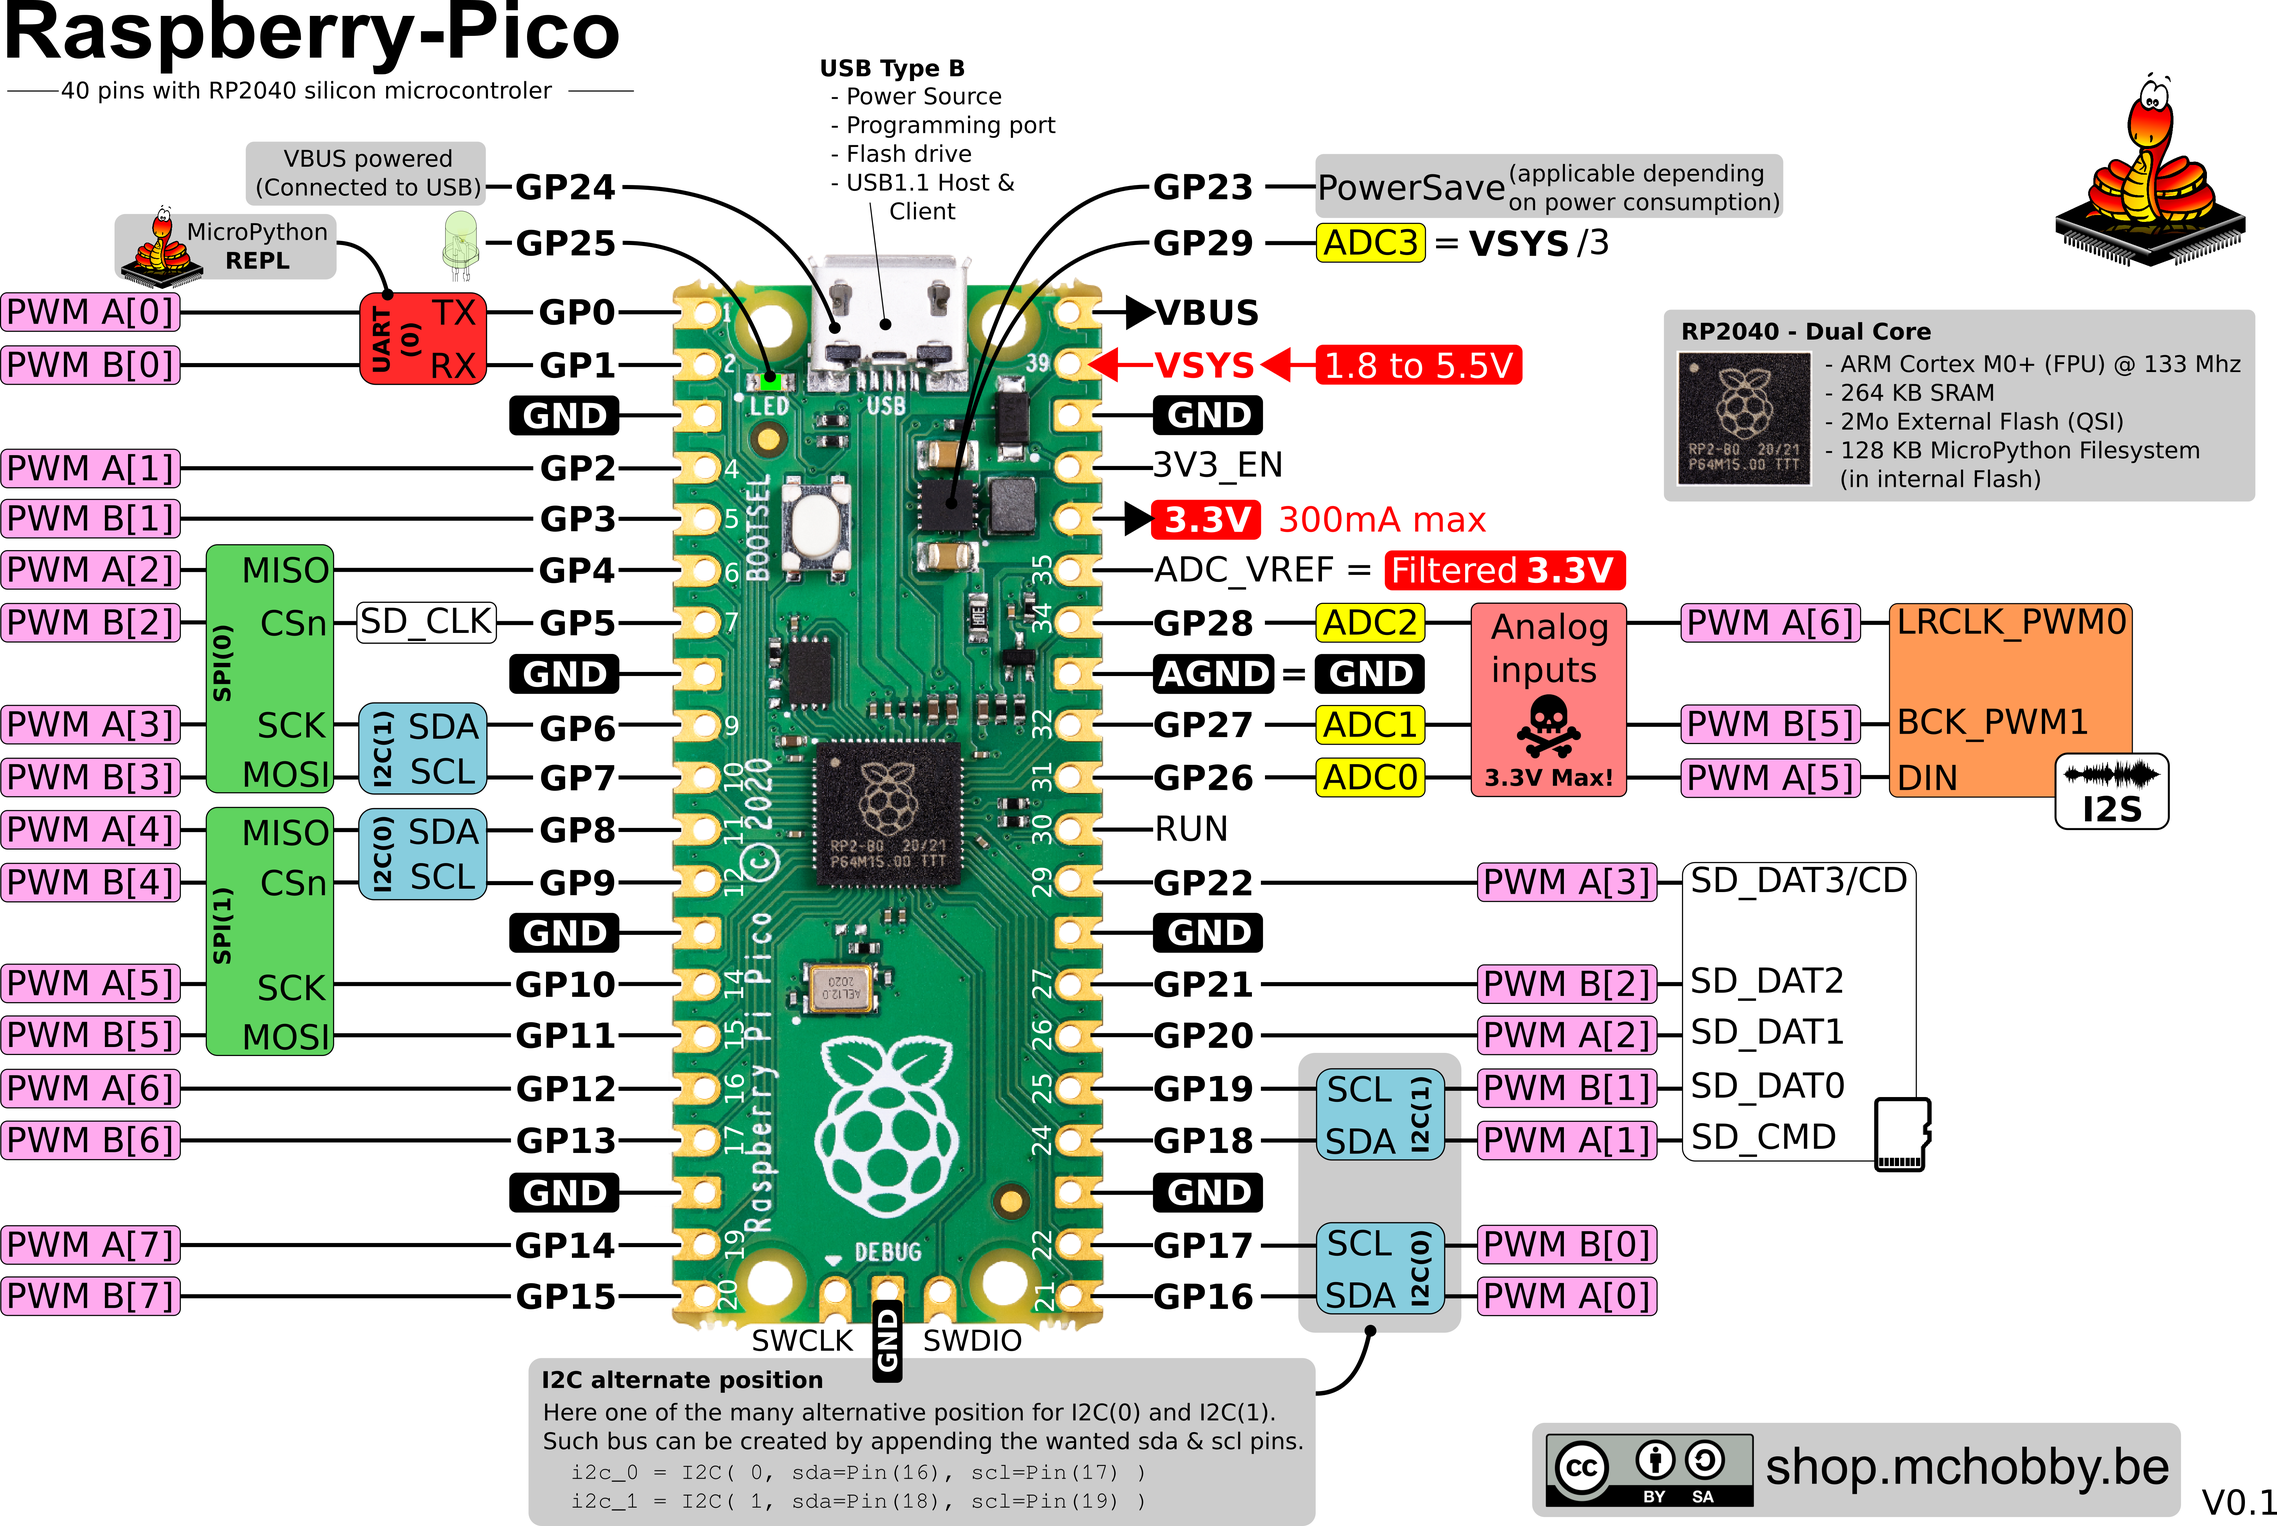
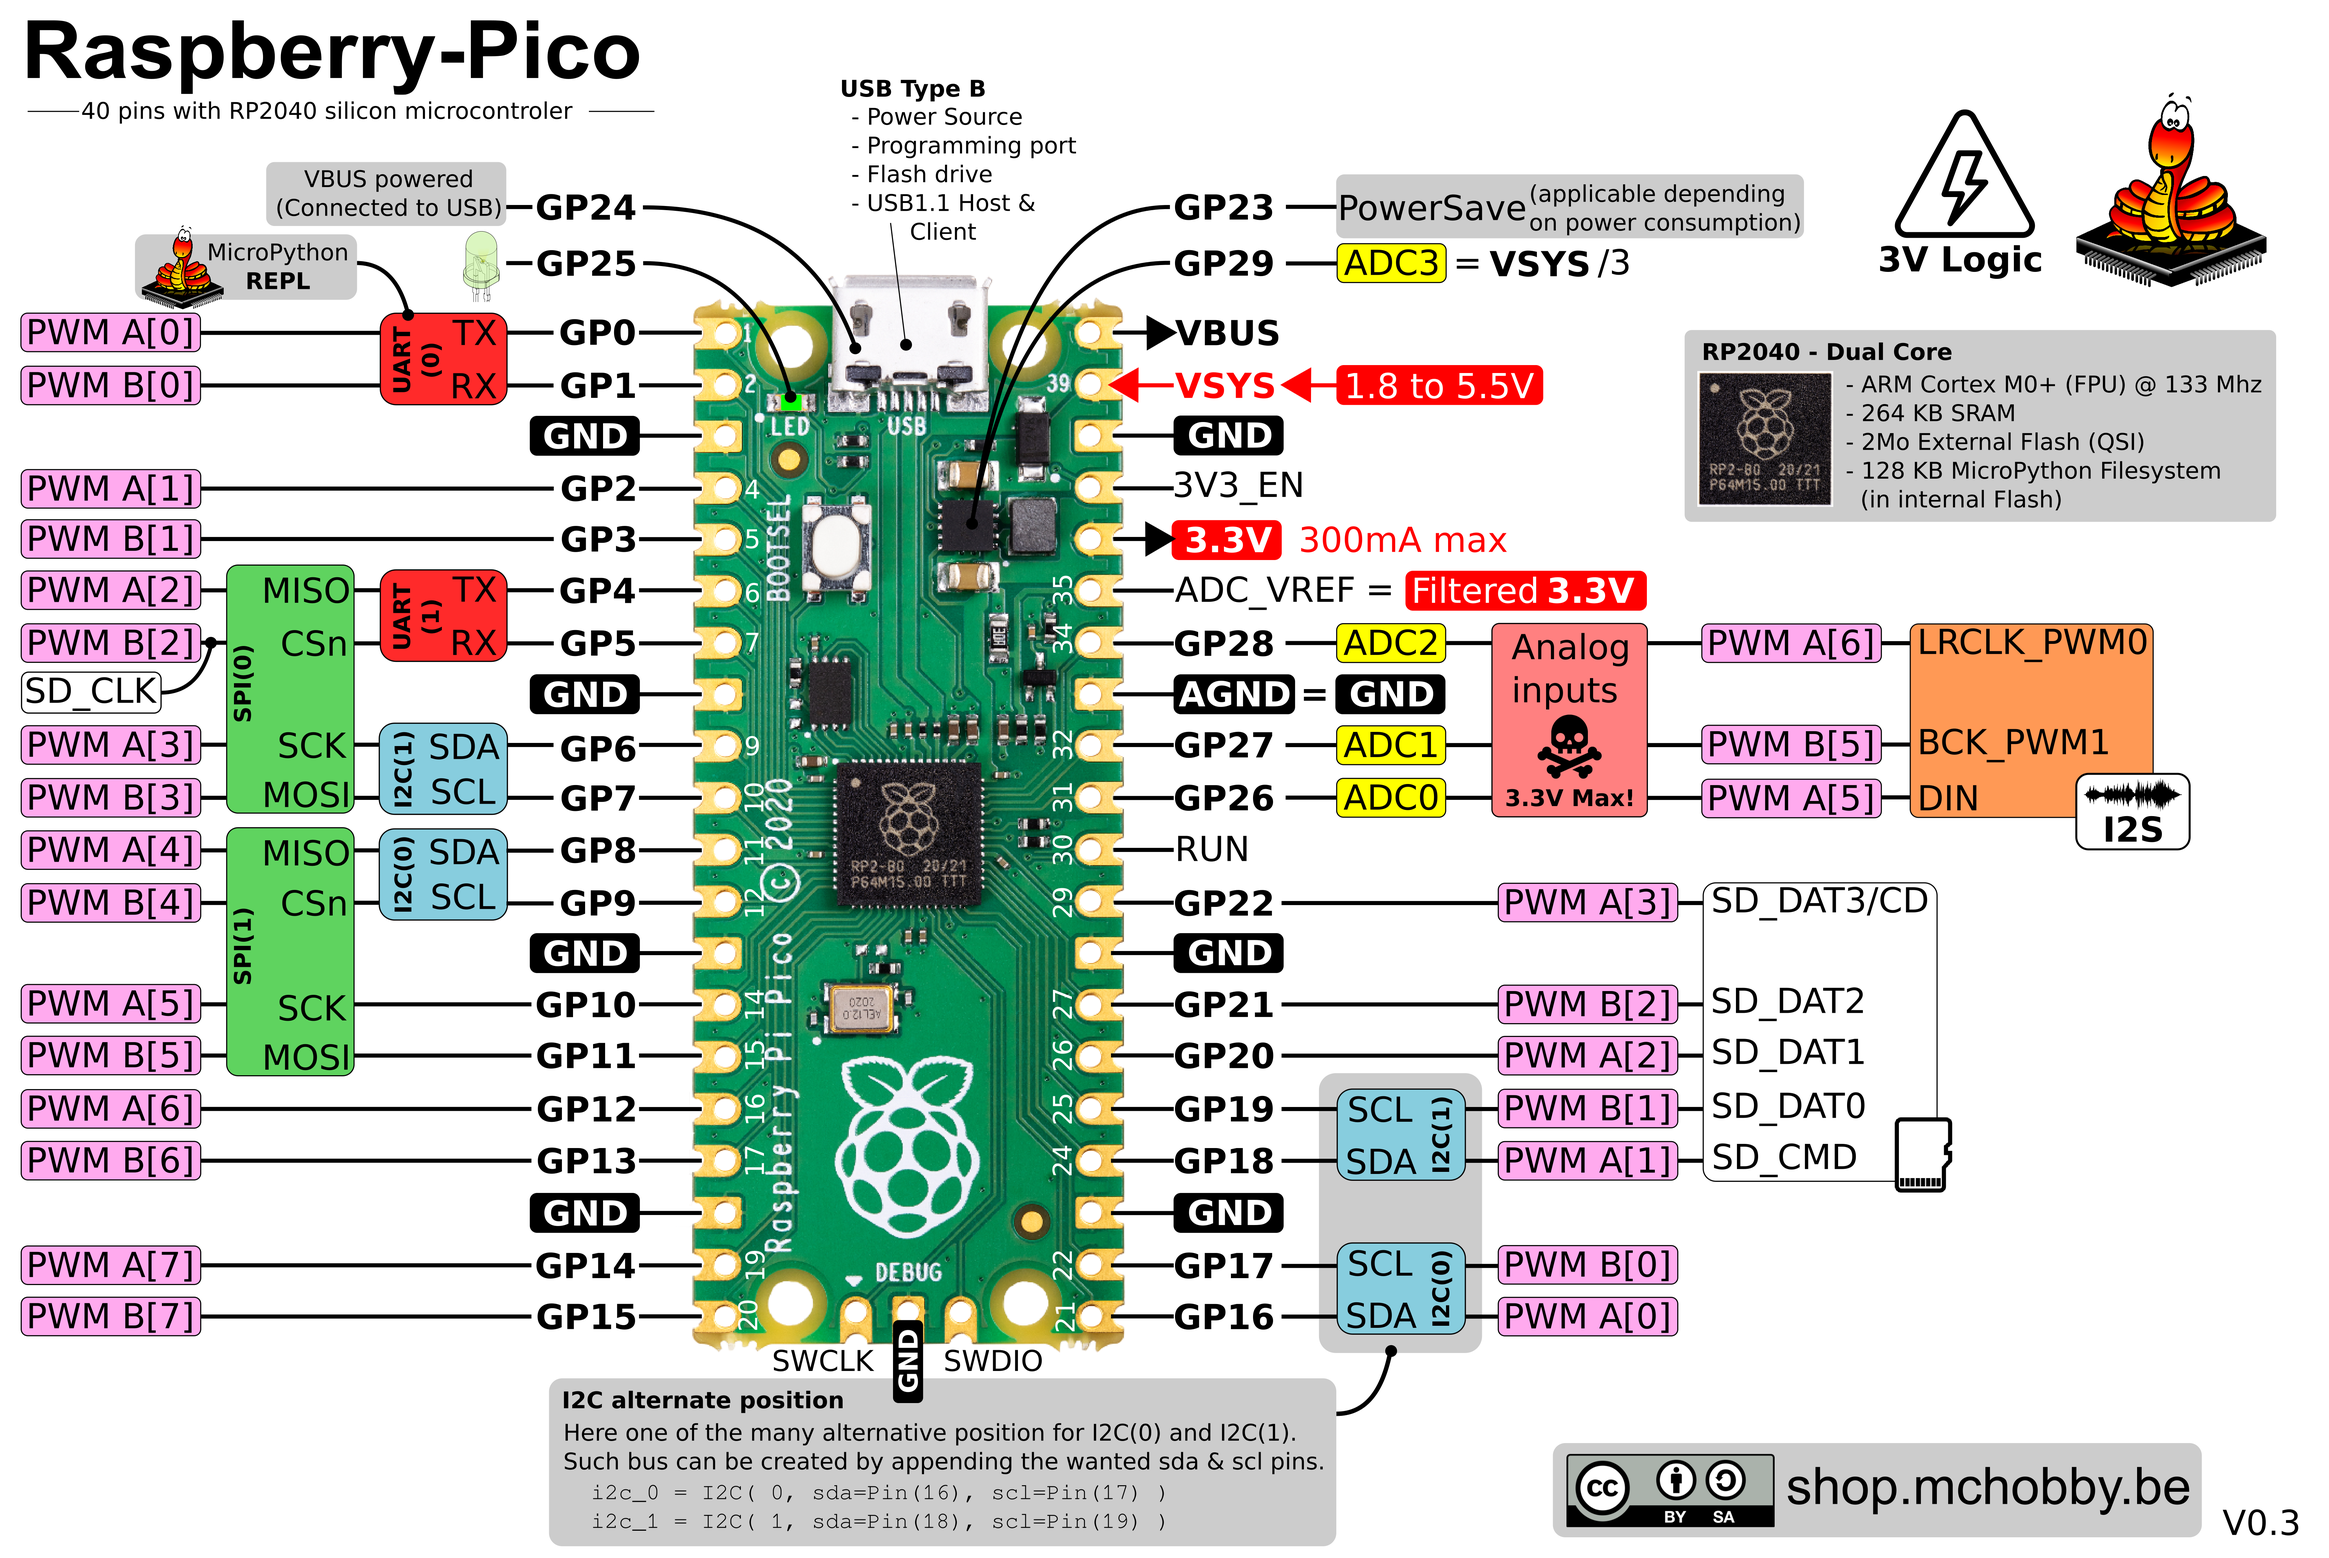
Update graphic

diff --git a/Pico/readme.md b/Pico/readme.md
@@ -15,6 +15,8 @@ Schéma du brochage pour le Pico destiné à une utilisation avec MicroPython.
 * [Pico Brochage FR](docs/_static/Pico_FR.jpg)  format jpg, voir aussi [PNG haute resolution](docs/_static/Pico_FR.png)
 * [Pico PinOut](docs/_static/Pico.jpg) format jpg, voir [PNG haute resolution](docs/_static/Pico.png)
 
+![Pico buses](docs/_static/buses.jpg)
+
 # Pico Annoté
 Simple et efficace, avec n° de broche, n° de GPIO et informations utiles.
 

diff --git a/Pico/readme_ENG.md b/Pico/readme_ENG.md
@@ -15,6 +15,8 @@ Here is the Pinout of Pico when used under MicroPython MicroPython.
 * [Pico PinOut](docs/_static/Pico.jpg) jpg format, see also [HighRes PNG](docs/_static/Pico.png)
 * [Pico Pinout FR](docs/_static/Pico_FR.jpg)  jpg format, see also [HighRes png](docs/_static/Pico_FR.png)
 
+![Pico buses](docs/_static/buses.jpg)
+
 # Annoted Pico
 Simple & efficient, with Pin number, GPIO number and some useful information.
 
